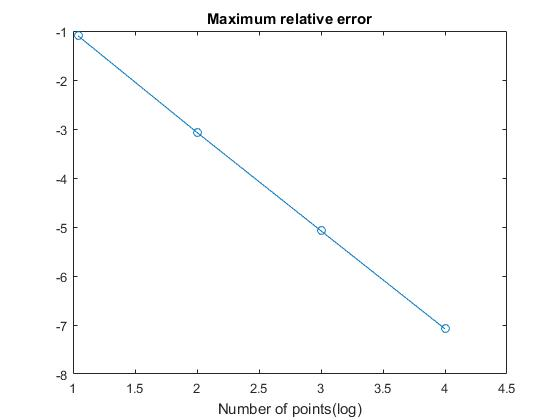
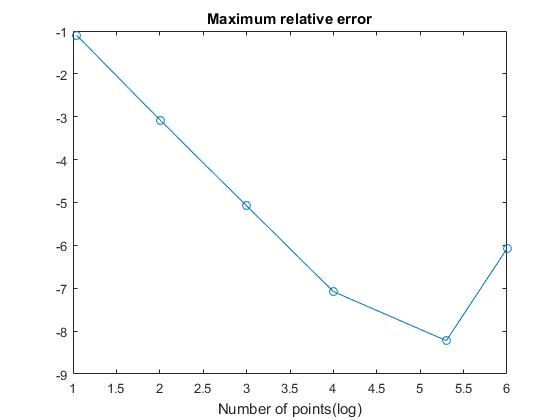
Figures and tables

diff --git a/project1/Python/project1.py b/project1/Python/project1.py
@@ -10,7 +10,7 @@ fig1 = plt.figure()
 fig2 = plt.figure()
 
 # Define the test case
-testcase = (10, 10)
+testcase = (10, 100, 1000, 10000, 200000, 1000000)
 print 'Gaussian Elimination'
 
 # Loop for different number of points
@@ -60,36 +60,7 @@ plt.legend()
 plt.figure(2)
 plt.title('Relative error')
 
-# Loop for Lu Decomposition
-print 'LU Decomposition'
-for m in testcase:
-    # Generate the full matrix
-    A = np.diag(2*np.ones(m-1), 0) + np.diag(-1*np.ones(m-2), 1) + np.diag(-1*np.ones(m-2), -1)
-    #print A
-    # Variables initialization
-    h = 1 / (float(m+1) - 1)
-    x = (np.arange(m + 1.0-2.0)) / m + h
-    f = (h ** 2.0) * 100.0 * np.exp(-10.0 * x)  # fi
-    # Solve using lib
-    start = time.clock()
-    LU = la.lu_factor(A)
-    X = la.lu_solve(LU, f)
-    finish = time.clock()
-    # Calculate the errors
-    # x = x[range(0, m-1)]                        # Delete 0 in denominator
-    X = X[range(0, m-1)]
-    u_exact = 1-(1-np.exp(-10.0))*x-np.exp(-10.0*x)
-    e2 = np.log10(np.abs(X-u_exact)/u_exact)
-    e2max = max(e2)
-    print 'The maximum error from LU decomposition using', m, 'step is', e2max
-    print 'time for LU is ', finish - start, 's'
 
-    # Plot
-    plt.figure(3)
-    plt.plot(x, X, 'o', label=m)
-    plt.figure(4)
-    plt.plot(x, e2, label=m)
-    plt.legend()
 
 plt.figure(3)
 plt.plot(x, u_exact, label='exact')
